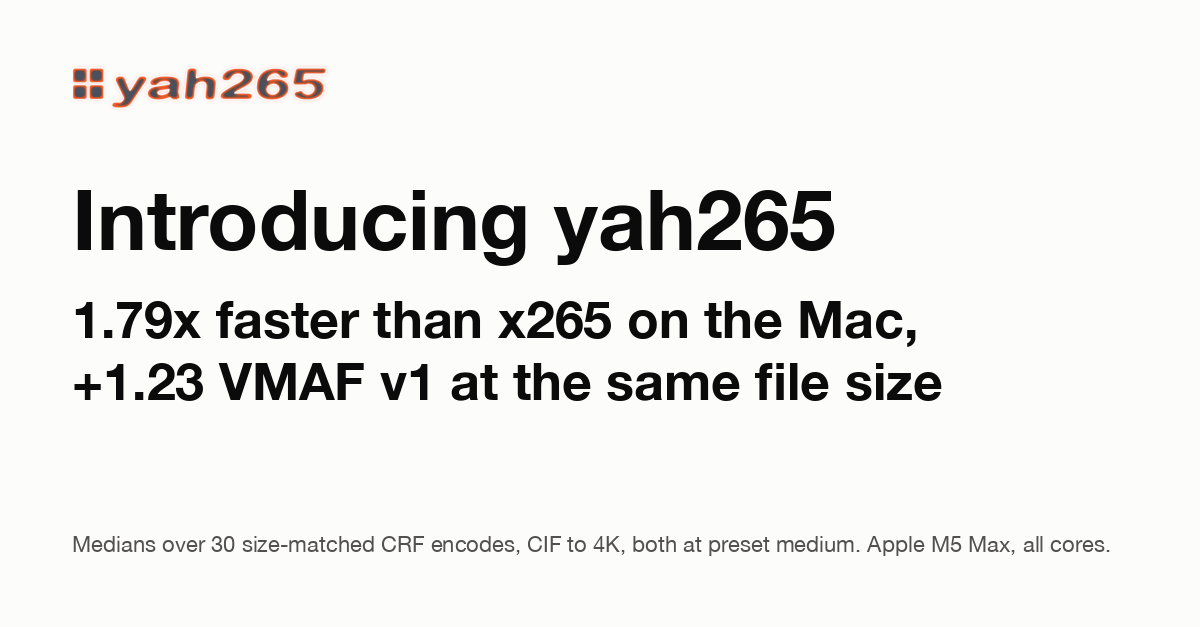
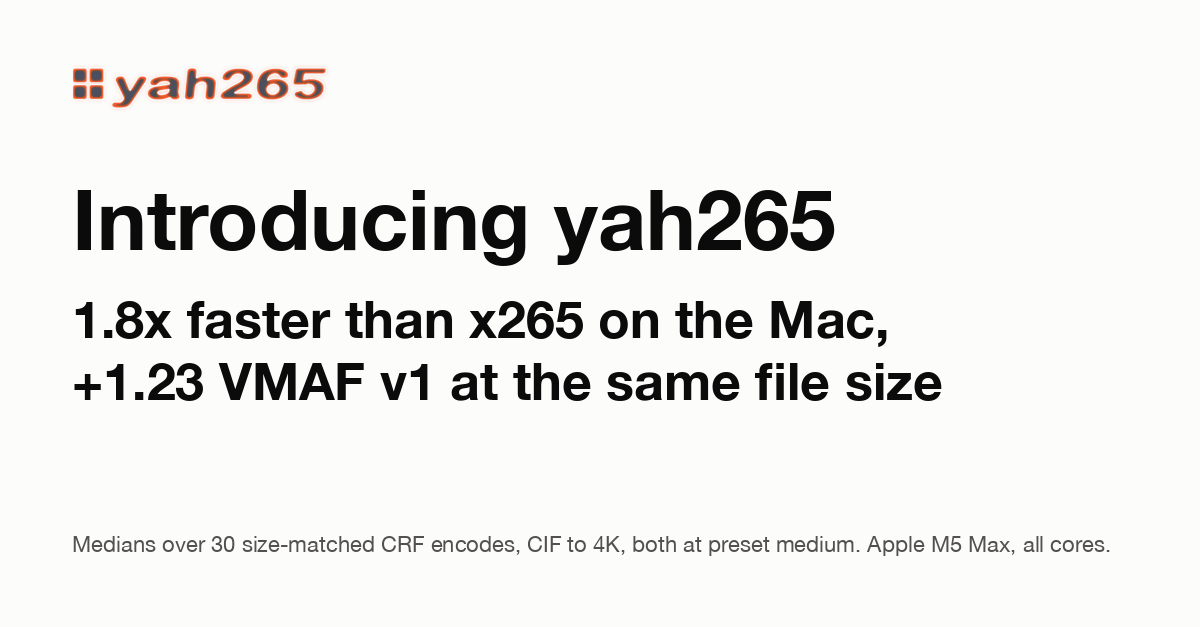
headline speed to one decimal: 1.8x
Run-to-run spread is wider than the second decimal. The headline
sentence, the pooled rows, the home hero chart, share cards and the
LinkedIn carousel use it; per-class and per-cell values keep two.

Changed region(s): [[0.0925, 0.4848, 0.7708, 0.5455]]

diff --git a/scripts/blog_charts.py b/scripts/blog_charts.py
@@ -317,6 +317,12 @@ def times(ratio):
     return f"{1 / ratio:.2f}x"
 
 
+def headline_times(pl):
+    """The headline speed, to one decimal: run-to-run spread is wider
+    than the second one, and one decimal reads at a glance."""
+    return f"{1 / pl['median']:.1f}x"
+
+
 BD_LINE = re.compile(r"^- (\S+) \(([A-Z])\): CRF BD-VMAF v1 ([-+]\d+\.\d+)%.*?"
                      r"VBR BD-VMAF v1 ([-+]\d+\.\d+)%")
 
@@ -814,7 +820,7 @@ def chart_cells(pl):
     rowh = {k: max(80, 2 * max(abs(o) for o in offs[k]) + 56) for k in offs}
     H = Tp + sum(rowh.values()) + B
     title = (f"All {pl['n']} size-matched cells run faster than x265, "
-             f"{times(pl['median'])} at the median"
+             f"{headline_times(pl)} at the median"
              if pl["faster"] == pl["n"]
              else f"{pl['faster']} of {pl['n']} size-matched cells run faster than x265")
     o = head(W, H, title, "One dot per timed cell: times faster than x265 medium at the same "
@@ -1079,7 +1085,7 @@ def headline(pl):
     """The site's one headline sentence, from headline_cells(). The home
     page, the README, the launch post, the results page and the social card
     all take their figures from the same dict."""
-    return (f"On an Apple M5 Max, yah265 encodes a median {times(pl['median'])} faster than "
+    return (f"On an Apple M5 Max, yah265 encodes a median {headline_times(pl)} faster than "
             f"x265 at the same file size. Its VMAF v1 score is a median {pl['dv']:.2f} points "
             f"higher. Those medians cover the {pl['n']} CRF encodes of the test set where the "
             "two files match in size within 1%, from short clips to ten-minute films at CIF "
@@ -1097,7 +1103,7 @@ def headline_table(pl):
                  f"{w[1]}, {times(w[0])} faster |")
     allv = [x for vs in pl["pools"].values() for x in vs]
     w = max(allv)
-    L.append(f"| **all** | **{pl['n']}** | **{times(pl['median'])} faster** | "
+    L.append(f"| **all** | **{pl['n']}** | **{headline_times(pl)} faster** | "
              f"{w[1]}, {times(w[0])} faster |")
     return "\n".join(L)
 
@@ -1250,7 +1256,7 @@ CARD_LAYOUT = 3  # bump when draw_card's wording or layout changes
 
 def card_key(pl, fl):
     ok = [r for r in fl["2160p"] if r[1]]
-    return (f"v{CARD_LAYOUT}|{times(pl['median'])}|{pl['dv']:+.2f}|{pl['n']}|{len(ok)}|"
+    return (f"v{CARD_LAYOUT}|{headline_times(pl)}|{pl['dv']:+.2f}|{pl['n']}|{len(ok)}|"
             f"{sum(r[2] for r in ok) / 60:.0f}|{sum(r[1] for r in ok) / 60:.0f}")
 
 
@@ -1297,7 +1303,7 @@ def draw_card(path, pl, fl):
     else:
         d.text((M, 60), "yah265", font=font(52, True), fill=ink)
     # the main line carries the machine and the metric with the two figures
-    main = [f"{times(pl['median'])} faster than x265 on the Mac,",
+    main = [f"{headline_times(pl)} faster than x265 on the Mac,",
             f"{pl['dv']:+.2f} VMAF v1 at the same file size"]
     size = 92
     while max(d.textlength(t, font=font(size, True)) for t in main) > W - 2 * M:

diff --git a/scripts/share_cards.py b/scripts/share_cards.py
@@ -47,7 +47,7 @@ def front_matter(path):
 
 def main_line(pl):
     """The one sentence a card with a number carries."""
-    return [f"{bc.times(pl['median'])} faster than x265 on the Mac,",
+    return [f"{bc.headline_times(pl)} faster than x265 on the Mac,",
             f"{pl['dv']:+.2f} VMAF v1 at the same file size"]
 
 
@@ -167,7 +167,7 @@ def launch_quality(path, key, pl):
     size = p.fit(main, 96, W - 2 * M)
     y = p.lines(M, 160, main, size, True, lead=1.18) + 30
     p.lines(M, y, [f"yah265 scores higher in {pl['dv_ahead']} of {pl['dv_n']} size-matched encodes,",
-                   f"and finishes a median {bc.times(pl['median'])} faster."], 36, fill=INK2, lead=1.35)
+                   f"and finishes a median {bc.headline_times(pl)} faster."], 36, fill=INK2, lead=1.35)
     p.text(M, 562, foot(pl), 22, fill=INK2)
     p.save(path, key)
 
@@ -200,7 +200,7 @@ def launch_square(path, key, pl):
     S = 1080
     p = Pen(S, S)
     p.logo(M, 80, 80)
-    main = [bc.times(pl["median"]) + " faster", "than x265 on the Mac,", f"{pl['dv']:+.2f} VMAF v1",
+    main = [bc.headline_times(pl) + " faster", "than x265 on the Mac,", f"{pl['dv']:+.2f} VMAF v1",
             "at the same file size"]
     size = p.fit(main, 112, S - 2 * M)
     y = p.lines(M, 250, main, size, True, lead=1.2) + 50
@@ -221,7 +221,7 @@ def main():
     pl, fl = bc.headline_cells(rows), bc.films(rows)
     ok = [r for r in fl["2160p"] if r[1]]
     cm = class_medians(pl)
-    figures = (f"{bc.times(pl['median'])}|{pl['dv']:+.2f}|{pl['n']}|{pl['dv_ahead']}|"
+    figures = (f"{bc.headline_times(pl)}|{pl['dv']:+.2f}|{pl['n']}|{pl['dv_ahead']}|"
                + "|".join(f"{r:.4f}" for _, r, _ in cm)
                + f"|{sum(r[1] for r in ok):.0f}|{sum(r[2] for r in ok):.0f}")
     jobs = {}

diff --git a/scripts/site_front.py b/scripts/site_front.py
@@ -117,10 +117,10 @@ def chart_hero(pl):
             o.append(bc.T(L - 14, y + h / 2 + 5, name, 15, "t1", "end", "600"))
     o.append("<g class='after'>")
     if nw:
-        o.append(bc.T(L, 122, f"{bc.times(ratio)}", 34, "note", weight="700"))
+        o.append(bc.T(L, 122, bc.headline_times(pl), 34, "note", weight="700"))
         o.append(bc.T(L + 104, 122, "faster than x265", 15, "t2"))
     else:
-        o.append(bc.T(X(1) + 16, y1 + h / 2 - 1, f"{bc.times(ratio)}", 30, "note", weight="700"))
+        o.append(bc.T(X(1) + 16, y1 + h / 2 - 1, bc.headline_times(pl), 30, "note", weight="700"))
         o.append(bc.T(X(1) + 16, y1 + h / 2 + 19, "faster than x265", 13, "t2"))
     o.append(bc.T(X(ratio) + 10, y2 + h / 2 + 5, f"{ratio * 100:.0f}% done", 13, "t1"))
     o.append("</g>")
@@ -695,7 +695,7 @@ def main():
             if not a.check:
                 with open(p, "w") as f:
                     f.write(new)
-    print(f"headline: {bc.times(pl['median'])} faster over {pl['n']} size-matched cells ("
+    print(f"headline: {bc.headline_times(pl)} faster over {pl['n']} size-matched cells ("
           + ", ".join(f"{k} {len(v)}" for k, v in pl["pools"].items())
           + f"); VMAF v1 {pl['dv']:+.2f} over {pl['dv_n']} cells; {nopt} options")
     if a.check:

diff --git a/scripts/charts_results.py b/scripts/charts_results.py
@@ -563,7 +563,7 @@ def values(D):
     pl = D["pl"]
     V["verdict"] = mdt(["what was measured", "result"], [L, R], [
         [f"median speed on the Mac at the same file size, {pl['n']} CRF cells",
-         f"{B.times(pl['median'])} faster"],
+         f"{B.headline_times(pl)} faster"],
         [f"median VMAF v1 lead at the same file size, the same {pl['dv_n']} cells",
          f"{pl['dv']:+.2f} points"],
         [f"median bits saved at equal VMAF v1, {len(allbd)} rate ladders",

diff --git a/scripts/linkedin_carousel.py b/scripts/linkedin_carousel.py
@@ -150,7 +150,7 @@ def scope(pl):
 
 def hook(s, pl):
     s.para(M, 250, "I wrote an HEVC video encoder from scratch.", 42, "medium", INK2)
-    s.text(M - 14, 318, bc.times(pl["median"]), 318, "heavy", NEON)
+    s.text(M - 14, 318, bc.headline_times(pl), 318, "heavy", NEON)
     y = s.para(M, 700, "faster than x265", 104, "bold", lead=1.1)
     y = s.para(M, y + 22, "at the same file size, with better quality.", 54, "medium", INK2,
                lead=1.25)

diff --git a/site/blog.md b/site/blog.md
@@ -7,7 +7,7 @@ image: assets/blog/card.png
 
 # Introducing yah265
 
-<!--gen:headline-->On an Apple M5 Max, yah265 encodes a median 1.79x faster than x265 at the same file size. Its VMAF v1 score is a median 1.23 points higher. Those medians cover the 30 CRF encodes of the test set where the two files match in size within 1%, from short clips to ten-minute films at CIF to 4K. Both encoders ran at preset medium with SIMD on all cores.<!--/gen:headline-->
+<!--gen:headline-->On an Apple M5 Max, yah265 encodes a median 1.8x faster than x265 at the same file size. Its VMAF v1 score is a median 1.23 points higher. Those medians cover the 30 CRF encodes of the test set where the two files match in size within 1%, from short clips to ten-minute films at CIF to 4K. Both encoders ran at preset medium with SIMD on all cores.<!--/gen:headline-->
 
 It's an H.265/HEVC encoder I wrote from scratch. Speed is the reason to try it. The chart shows what the difference looks like on real films. Both encoders wrote files of the same size from the same ten-minute films on my Mac at `--preset medium`. yah265 finished every film first. Each of its files also scored higher on VMAF v1.
 
@@ -188,7 +188,7 @@ Every table here is filled by the script that draws the charts.
 | 720p | 10 | 1.92x faster | Shields 720p, 1.54x faster |
 | 1080p | 10 | 1.79x faster | Big Buck Bunny 1080p, 10 min, 1.69x faster |
 | 4K | 7 | 1.67x faster | Sintel 4K, 10 min, 1.52x faster |
-| **all** | **30** | **1.79x faster** | Sintel 4K, 10 min, 1.52x faster |
+| **all** | **30** | **1.8x faster** | Sintel 4K, 10 min, 1.52x faster |
 <!--/gen:headline-table-->
 
 All of these ran on the Mac at CRF with SIMD on all cores. In each one the two files are the same size within 1%. The VMAF v1 lead in the headline is the median over the same cells. yah265 scores higher on <!--gen:dv-cells-->29 of the 30<!--/gen:dv-cells--> of them.

diff --git a/site/index.md b/site/index.md
@@ -7,7 +7,7 @@ description: An H.265/HEVC encoder written from scratch. It runs faster than x26
 
 Welcome to the home of yah265, an HEVC encoder that went through months of optimization and benchmarking until it significantly outperformed x265 and others. We chose targets for quality, compression and encoding speed and were able to surpass them. I will go into more details as to how I was able to do this later in these docs.
 
-<p class="standfirst"><!--gen:headline-->On an Apple M5 Max, yah265 encodes a median 1.79x faster than x265 at the same file size. Its VMAF v1 score is a median 1.23 points higher. Those medians cover the 30 CRF encodes of the test set where the two files match in size within 1%, from short clips to ten-minute films at CIF to 4K. Both encoders ran at preset medium with SIMD on all cores.<!--/gen:headline--></p>
+<p class="standfirst"><!--gen:headline-->On an Apple M5 Max, yah265 encodes a median 1.8x faster than x265 at the same file size. Its VMAF v1 score is a median 1.23 points higher. Those medians cover the 30 CRF encodes of the test set where the two files match in size within 1%, from short clips to ten-minute films at CIF to 4K. Both encoders ran at preset medium with SIMD on all cores.<!--/gen:headline--></p>
 
 yah265 is an H.265/HEVC encoder written from scratch in C. It runs inside ffmpeg under the options you already use.
 
@@ -73,7 +73,7 @@ The headline covers the cells in the first table. Each is one clip at one pictur
 | 720p | 10 | 1.92x faster | Shields 720p, 1.54x faster |
 | 1080p | 10 | 1.79x faster | Big Buck Bunny 1080p, 10 min, 1.69x faster |
 | 4K | 7 | 1.67x faster | Sintel 4K, 10 min, 1.52x faster |
-| **all** | **30** | **1.79x faster** | Sintel 4K, 10 min, 1.52x faster |
+| **all** | **30** | **1.8x faster** | Sintel 4K, 10 min, 1.52x faster |
 <!--/gen:pooled-table-->
 
 <!--gen:quality-table-->

diff --git a/README.md b/README.md
@@ -14,7 +14,7 @@
   <a href="#license">License</a>
 </p>
 
-<!--gen:headline-->On an Apple M5 Max, yah265 encodes a median 1.79x faster than x265 at the same file size. Its VMAF v1 score is a median 1.23 points higher. Those medians cover the 30 CRF encodes of the test set where the two files match in size within 1%, from short clips to ten-minute films at CIF to 4K. Both encoders ran at preset medium with SIMD on all cores.<!--/gen:headline-->
+<!--gen:headline-->On an Apple M5 Max, yah265 encodes a median 1.8x faster than x265 at the same file size. Its VMAF v1 score is a median 1.23 points higher. Those medians cover the 30 CRF encodes of the test set where the two files match in size within 1%, from short clips to ten-minute films at CIF to 4K. Both encoders ran at preset medium with SIMD on all cores.<!--/gen:headline-->
 
 yah265 is an H.265/HEVC encoder written from scratch in C. It runs inside ffmpeg under the options you already use. Its sibling [yah264](https://terranvigil.github.io/yah264/) met the same goals against x264.
 
@@ -49,7 +49,7 @@ The headline covers the cells below. Each is one clip at one picture size, coded
 | 720p | 10 | 1.92x faster | Shields 720p, 1.54x faster |
 | 1080p | 10 | 1.79x faster | Big Buck Bunny 1080p, 10 min, 1.69x faster |
 | 4K | 7 | 1.67x faster | Sintel 4K, 10 min, 1.52x faster |
-| **all** | **30** | **1.79x faster** | Sintel 4K, 10 min, 1.52x faster |
+| **all** | **30** | **1.8x faster** | Sintel 4K, 10 min, 1.52x faster |
 <!--/gen:pooled-table-->
 
 <!--gen:quality-table-->

diff --git a/site/results.md b/site/results.md
@@ -12,7 +12,7 @@ The first two rows are the headline. They cover the CRF cells timed on the Mac a
 <!--gen:verdict-->
 | what was measured | result |
 |---|--:|
-| median speed on the Mac at the same file size, 30 CRF cells | 1.79x faster |
+| median speed on the Mac at the same file size, 30 CRF cells | 1.8x faster |
 | median VMAF v1 lead at the same file size, the same 30 cells | +1.23 points |
 | median bits saved at equal VMAF v1, 38 rate ladders | 10.2% |
 | speed groups inside the bar, three goals on three machines | 81 of 81 |
